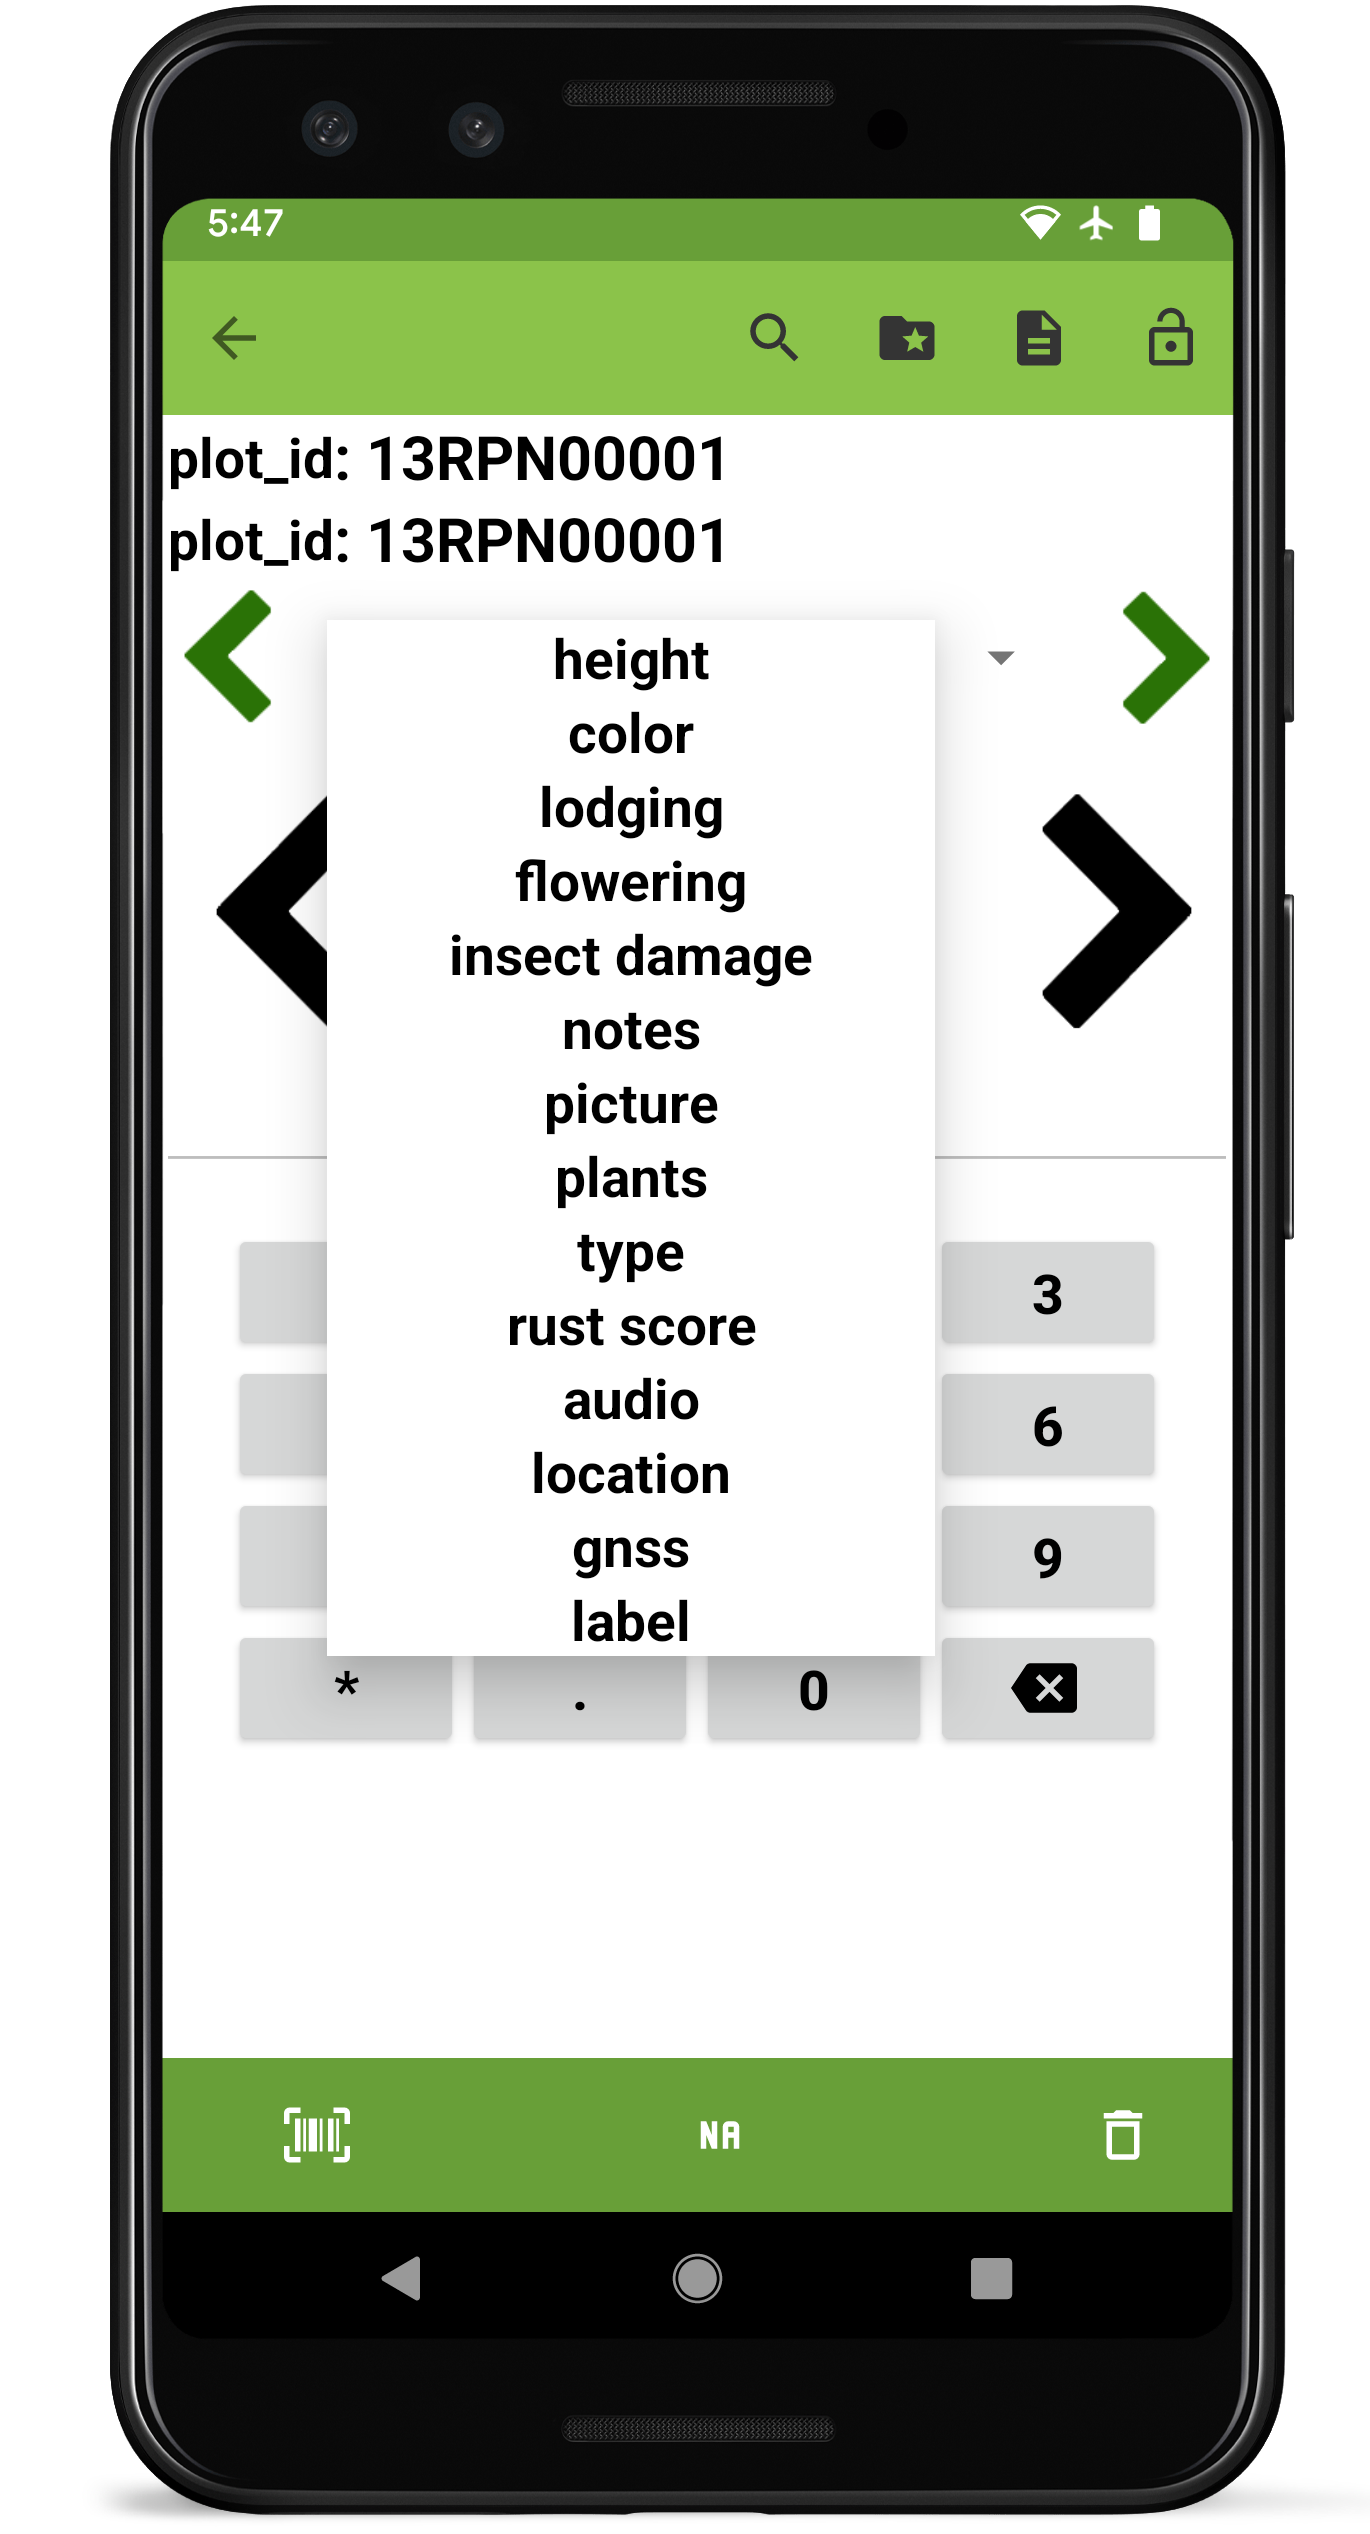
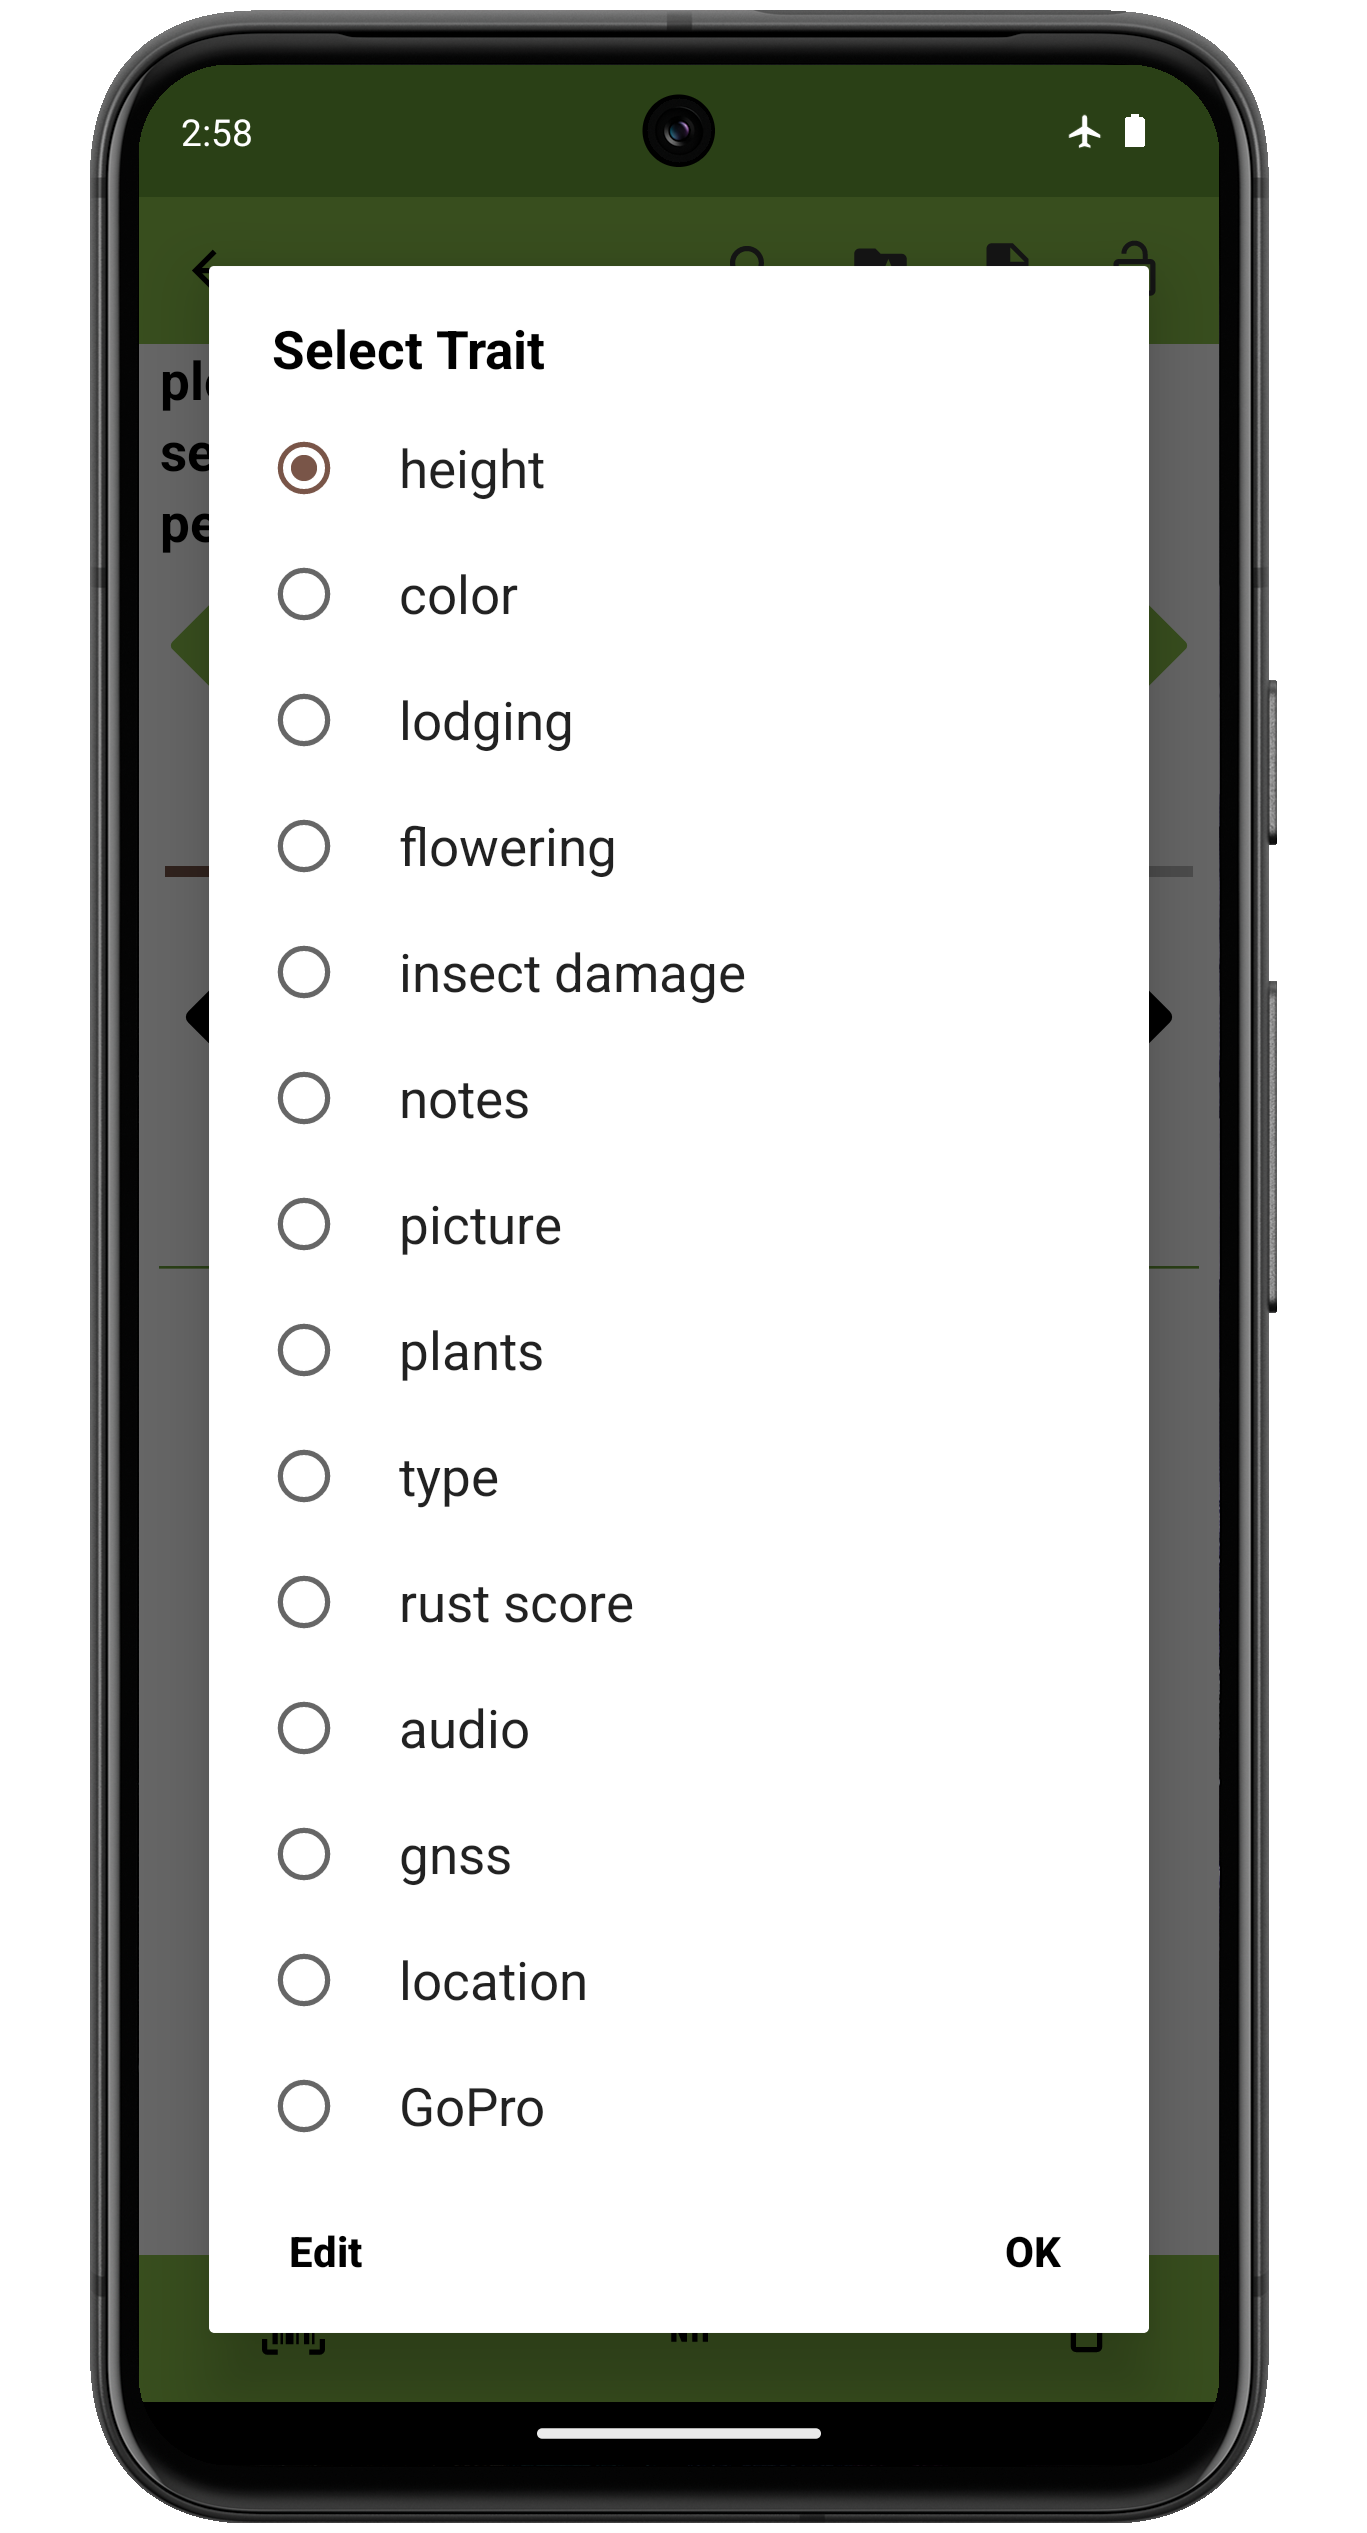
deploy: 8f998d96f24eaebd3dbeb6832a43ad4ae78d87d1

diff --git a/collect.md b/collect.md
@@ -6,13 +6,13 @@ Overview
 
 Field Book aims to increase the rate at which data can be collected by
 tailoring the input screen to fit the exact task. Only a single entry
-and trait are visible at a time during collection. This reduces the risk
-of error and allows trait-specific layouts to be used for data input.
+and trait are visible at a time during collection. This reduces the risk of error and allows trait-specific layouts to be used for data input.
 
-The small green arrows are used to navigate between traits. The large
-black arrows are used to navigate between entries. Data is entered in
-the bottom area of the screen using a layout determined by the current
-trait. Data is saved to an internal database as it is collected.
+The small green arrows are used to navigate between traits. A line of dots below the arrows represent the individual traits, and the progression through them for the current entry.
+
+The large black arrows are used to navigate between entries. The progress bar above them indicates progress through the entries.
+
+Data is entered in the bottom area of the screen using a layout determined by the current trait. Entered values turn from black to red once they have been saved to Field Book's internal database.
 
 <figure align="center" class="image">
   <img src="_static/images/collect/collect_framed.png" width="400px"> 
@@ -29,22 +29,19 @@ to the back navigation arrow).
 
 -   <img ref="search" style="vertical-align: middle;" src="_static/icons/collect/magnify.png" width="20px"> **Search** opens a dialog to search for a specific entry.
 
-    <figure align="center" class="image">
-      <img src="_static/images/collect/collect_search_dialog.png" width="325px"> 
-      <figcaption><i>The collect screen search tool</i></figcaption> 
-    </figure>
+<figure align="center" class="image">
+  <img src="_static/images/collect/collect_search_steps_joined.png" width="1100px"> 
+  <figcaption><i>The collect screen search tool</i></figcaption> 
+</figure>
 
-The search dialog provides a flexible interface for finding a specific
-entry within the current field. Select which imported data field to
-search by, what strategy to use to find a match, and enter a search
-string. Press Add to construct a complex search with an additional field
-and search string, or press OK to execute the search.
+The search dialog provides a flexible interface to search for specific entries. Populate the search menu by pressing the <img ref="plus" style="vertical-align: middle;" src="_static/icons/fields/plus.png" width="20px"> icon, and selecting from the list of attributes, traits, or other columns. Once a search column is added you can enter a search string on it's blank text entry line. Press the <img ref="sort" style="vertical-align: middle;" src="_static/icons/collect/equal-box.png" width="20px"> icon if you'd like to change the operator from "equals" to "contains", or numeric operators like ">" or "<". Press the <img ref="delete" style="vertical-align: middle;" src="_static/icons/settings/sounds/delete.png" width="20px"> icon to remove a column. Add as many search columns as you like, then press search. The search will return a table of matching results, press any line in the results table to jump to that entry.
 
-- <img ref="resources" style="vertical-align: middle;" src="_static/icons/collect/folder-star.png" width="20px"> **Resources** opens the `resources` folder and can be used to load reference images.
+- <img ref="resources" style="vertical-align: middle;" src="_static/icons/collect/folder-star.png" width="20px"> **Resources** opens the `resources` folder and can be used to load reference images. Long press the icon to jump directly to the most recently loaded file, rather than the file picker.
+
 - <img ref="summary" style="vertical-align: middle;" src="_static/icons/collect/file-document.png" width="20px"> **Summary** opens a dialog that displays all info for the current entry.
 
 <figure align="center" class="image">
-  <img src="_static/images/collect/collect_summary_screen.png" width="325px"> 
+  <img src="_static/images/collect/collect_summary_joined.png" width="700px"> 
   <figcaption><i>The collect screen summary tool</i></figcaption> 
 </figure>
 
@@ -67,7 +64,7 @@ trait.
 -   <img ref="partial" style="vertical-align: middle;" src="_static/icons/collect/lock-clock.png" width="20px"> **Limited** freezes existing data but allows entry of new values.
 
 More tools can be added to the toolbar in the
-<a href="settings-general.md"><img style="vertical-align: middle;" src="_static/icons/home/cog.png" width="20px"></a> [General Settings](settings-general.md). Default tools can be removed from the toolbar in <a href="settings-appearance.md"><img style="vertical-align: middle;" src="_static/icons/settings/appearance/view-grid-outline.png" width="20px"></a> [Appearance Settings](settings-appearance.md).
+<a href="settings-features.md"><img style="vertical-align: middle;" src="_static/icons/settings/main/star-circle-outline.png" width="20px"></a> [Features Settings](settings-features.md). Default tools can be removed from the toolbar in <a href="settings-appearance.md"><img style="vertical-align: middle;" src="_static/icons/settings/appearance/view-grid-outline.png" width="20px"></a> [Appearance Settings](settings-appearance.md).
 
 #### InfoBars
 
@@ -80,9 +77,11 @@ InfoBars display information about the current plot. InfoBar prefixes
 can be pressed to adjust which data field is displayed.
 
 <figure align="center" class="image">
-  <img src="_static/images/collect/collect_infobar_menu_framed.png" width="400px"> 
-  <figcaption><i>Selecting which data field is shown in the InfoBars</i></figcaption> 
+  <img src="_static/images/collect/collect_infobar_joined.png" width="700px"> 
+  <figcaption><i>Customizing the infoBar section</i></figcaption> 
 </figure>
+
+An infobar can show one of the attributes imported with the field, or the value of a trait. The number of infobars can also be changed by pressing "customize" in the bottom left of the dialog, this navigates the the "numnber of infobars" preference in the <a href="settings-appearance.md"><img style="vertical-align: middle;" src="_static/icons/settings/appearance/view-grid-outline.png" width="20px"></a> [Appearance Settings](settings-appearance.md).
 
 #### Trait navigation
 
@@ -93,12 +92,12 @@ can be pressed to adjust which data field is displayed.
 
 The small, green arrows are used to move between the different traits
 that are currently active. Pressing the current trait will show a
-dropdown of all currently active traits.
+dialog of all currently active traits, select a different trait to jump to it.
 
 <figure align="center" class="image">
   <img src="_static/images/collect/collect_trait_menu_framed.png" width="400px"> 
   <figcaption><i>Pressing the active trait to see the trait
-dropdown</i></figcaption> 
+dialog</i></figcaption> 
 </figure>
 
 #### Entry navigation

diff --git a/fields.md b/fields.md
@@ -153,7 +153,7 @@ The first collapsible section includes metadata about the field (import source, 
 
   - **Rename** is used to edit the name displayed for the field throughout the app.
 
-  - **Sort** provides a dialog to update the plot ordering. Populate the sort menu by pressing the <img ref="plus" style="vertical-align: middle;" src="_static/icons/fields/plus.png" width="20px"> icon, and selecting from the list of imported columns. Once columns have been added, change their relative priority by using the <img ref="reorder" style="vertical-align: middle;" src="_static/icons/traits/reorder-horizontal.png" width="20px"> icon to drag and reorder them. Press the <img ref="sort" style="vertical-align: middle;" src="_static/icons/fields/sort.png" width="20px"> icon to toggle the sort between ascending and descending. Press the <img ref="delete" style="vertical-align: middle;" src="_static/icons/settings/sounds/delete.png" width="20px"> icon to remove a column.
+  - **Sort** provides a dialog to update the entry ordering. Populate the sort menu by pressing the <img ref="plus" style="vertical-align: middle;" src="_static/icons/fields/plus.png" width="20px"> icon, and selecting from the list of imported columns. Once columns have been added, change their relative priority by using the <img ref="reorder" style="vertical-align: middle;" src="_static/icons/traits/reorder-horizontal.png" width="20px"> icon to drag and reorder them. Press the <img ref="sort" style="vertical-align: middle;" src="_static/icons/fields/sort.png" width="20px"> icon to toggle the sort between ascending and descending. Press the <img ref="delete" style="vertical-align: middle;" src="_static/icons/settings/sounds/delete.png" width="20px"> icon to remove a column.
 
 The following sections can be pressed to <a href="collect.md"><img style="vertical-align: middle;" src="_static/icons/home/barley.png" width="20px"></a>[Collect](collect.md) data for the field, <a href="export.md"><img style="vertical-align: middle;" src="_static/icons/home/save.png" width="20px"></a> [Export](export.md) the field's data, and (if the field was imported via BrAPI) <a href="brapi.md"><img style="vertical-align: middle;" src="_static/icons/settings/main/server-network.png.png" width="20px"></a> [Brapi](brapi.md) the field's data by pulling in any new observations.
 
